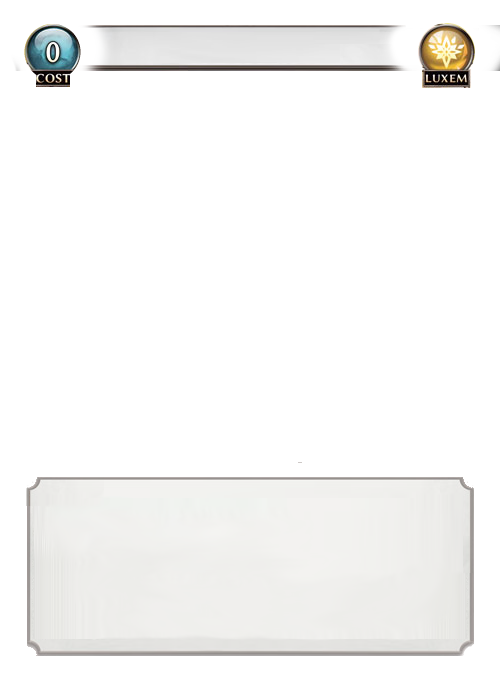
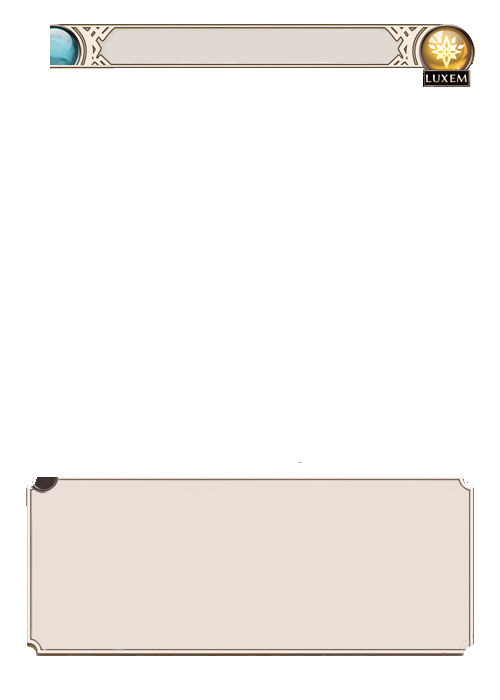
CSR Mode

diff --git a/index.html b/index.html
@@ -102,8 +102,9 @@
       <div class="cardSection" id="cardElement"></div>
       <div class="cardSection" id="cardTitle">Card Title</div>
       <div class="cardSection" id="cardTypeLine">
-        <span id="cardTypeBar"> <span class="cardSection" id="cardTypeText">Ally - Tamer Ranger Animal Human</span></span>
+        <span id="cardTypeBar"> <span class="cardSection" id="spacerCardTypeText">Ally - Tamer Ranger Animal Human</span></span>
         <span id="cardTypePoint">&nbsp</span>
+        <span class="cardSection" id="cardTypeText">Ally - Tamer Ranger Animal Human</span>
       </div>
       <div class="cardSection" id="cardType"></div>
       <div class="cardSection" id="cardCostBubble"></div>
@@ -215,6 +216,7 @@
       document.getElementById(sectionId).innerHTML = substituteTextForImages(value);
       hideRenderContainer();
       updateElementClipping();
+      positionCardTypeText();
     }
 
     function updateImage(sectionId, value, format, respectprinting = false, imagetype = "png") {
@@ -333,8 +335,8 @@
         const cardElementBackground = document.getElementById('cardElementBackground');
 
         if (mode === 'CSR') {
-            const barWidth = cardTypeBar.offsetWidth+55;
-            cardElementBackground.style.clipPath = `polygon(0% 0%, 100% 0%, 100% 100%, 0% 100%, 0% 70.4%, 0% 67.5%, 10% 67.5%, 10% 70.4%, ${barWidth}px 70.4%, ${barWidth+12}px 67.5%,  ${barWidth}px 66.1%,  0% 66.1%)`;
+            const barWidth = cardTypeBar.offsetWidth+56;
+            cardElementBackground.style.clipPath = `polygon(0% 0%, 100% 0%, 100% 100%, 0% 100%, 0% 70.4%, 0% 67.5%, 10% 67.5%, 10% 70.4%, ${barWidth}px 70.4%, ${barWidth+16}px 67.5%,  ${barWidth}px 66.1%,  0% 66.1%)`;
 
         } else {
             cardElementBackground.style.clipPath = 'none';
@@ -520,8 +522,24 @@
         document.onmousemove = null;
         $("#artPosition").prop('value', getCssText(document.getElementById('cardArt')));
       }
-
     }
+
+    function positionCardTypeText() {
+      const spacer = document.getElementById('spacerCardTypeText');
+      const text = document.getElementById('cardTypeText');
+
+      // Get the position and dimensions of the spacer
+      const rect = spacer.getBoundingClientRect();
+
+      // Position the text element to match the spacer
+      text.style.top = (rect.top-507) + 'px';
+      text.style.left = (rect.left-388) + 'px';
+      text.style.width = 400 + 'px';
+
+      spacer.innerText = text.innerText.slice(0, -2)
+    }
+
+    window.onresize = positionCardTypeText;    
 
     window.onload = function () {
       updateImage('cardElementBackground', document.getElementById('element').value, 'element-border-', true);
@@ -544,6 +562,8 @@
       updateImage('cardPower', 'stat-power', '');
       updateImage('cardLife', 'stat-life', '');
       updateImage('cardDurability', 'stat-durability', '');
+
+      positionCardTypeText();
       
       $("#artupload").change(function(e) {
         $("#artURL").prop('value', "");

diff --git a/styles.css b/styles.css
@@ -196,8 +196,15 @@ body {
   background-repeat: horizontal;
 }
 
-#cardTypeText {
+#spacerCardTypeText {
   position:relative;
+  bottom:0.5px;
+  opacity:0.1;
+  z-index:1;
+}
+
+#cardTypeText {
+  position:absolute;
   bottom:0.5px;
   opacity:1;
   z-index:1;
@@ -207,7 +214,7 @@ body {
   position:relative;
   margin-top:2px;
   top:-2px;
-  left:-6px;
+  left:-4px;
   padding-top:7px;      
   margin-bottom: 2px;
   height:22px;
